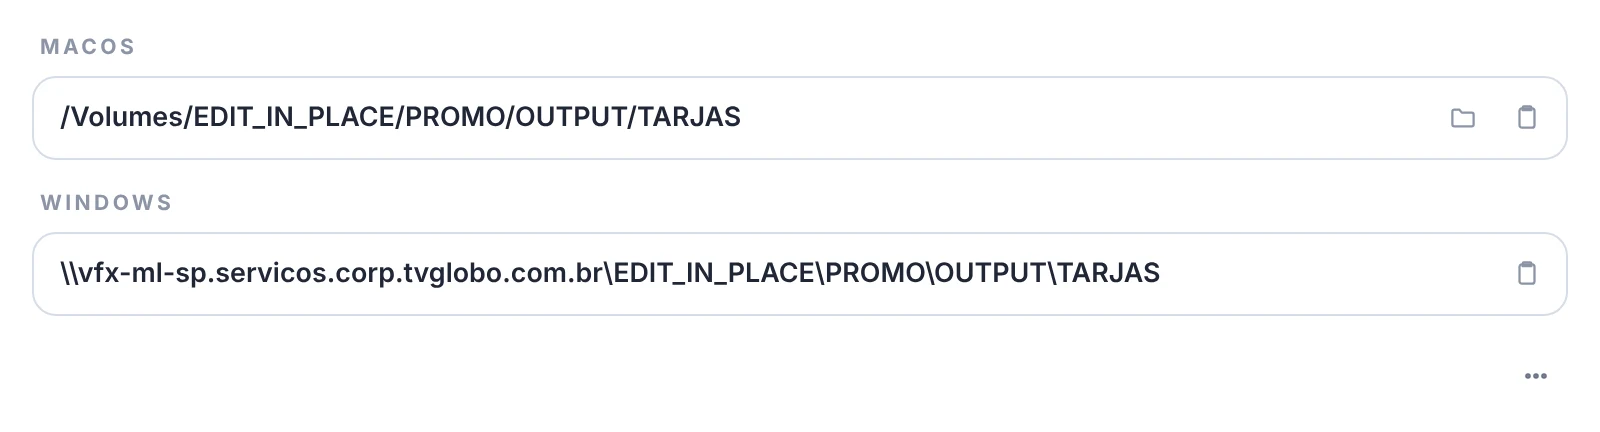
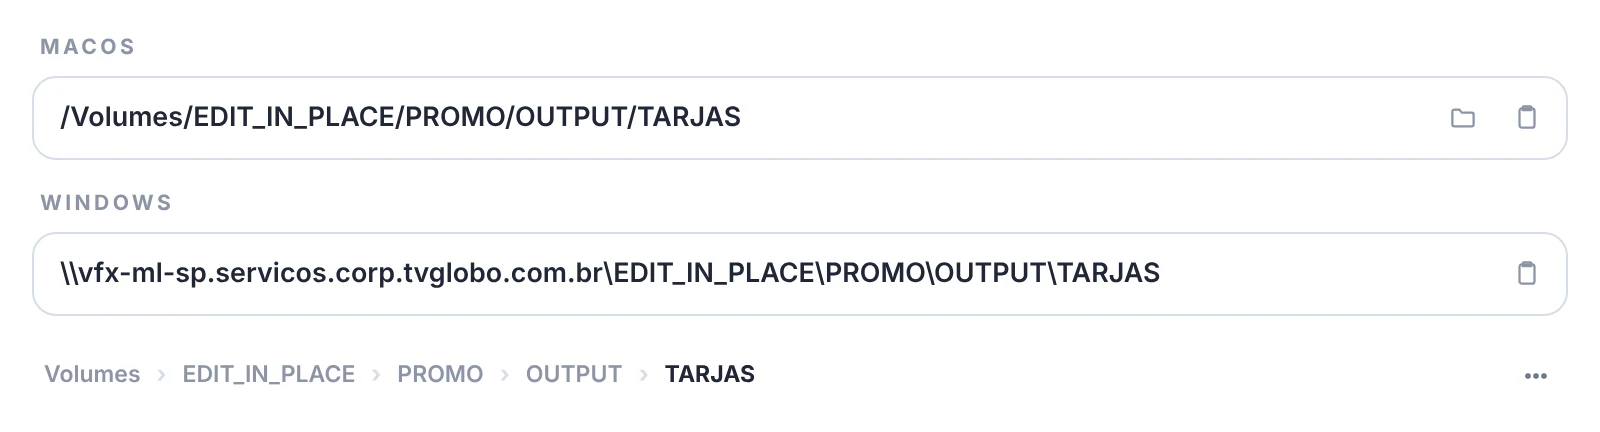
Conversor: breadcrumb do caminho no rodapé
As pastas do caminho do sistema atual aparecem no rodapé, com prioridade
para as últimas: as iniciais saem (com '…') quando não cabem, e a última
só é cortada se sobrar sozinha. Clicar numa pasta abre aquela pasta. As
mensagens ocupam o lugar do breadcrumb e somem sozinhas (os erros ficam).

Claude-Session: https://claude.ai/code/session_01DrYHfUyMEmqYvcFyKefNe2

Changed region(s): [[0.25, 0.8426, 0.4688, 0.9028], [0.0312, 0.8426, 0.2188, 0.9028]]

diff --git a/extension/client/js/converter.js b/extension/client/js/converter.js
@@ -18,18 +18,84 @@ pede (botão 'pastas', clique direito). Copiar e abrir a pasta ficam dentro dos 
 	var DOCS_URL = 'https://github.com/jmbillard/O-PADEIRO/blob/main/docs/conversor.md';
 		var REQUEST_TTL = 15000; // ms: um pedido da barra feito há pouco vale ao abrir o painel
 
-	var state = { os: 'Mac', seq: 0, lastStamp: 0, timer: null };
+	var state = { os: 'Mac', seq: 0, lastStamp: 0, timer: null, statusTimer: null };
 
 	function $(id) {
 		return document.getElementById(id);
 	}
 
+	// A mensagem ocupa o lugar do breadcrumb; as que não são erro somem sozinhas.
 	function status(text, isError) {
 		var node = $('cv-status');
 
+		clearTimeout(state.statusTimer);
 		node.textContent = isError ? PAD_UTIL.errorText(text) : text || '';
 		node.title = node.textContent;
 		node.classList.toggle('is-error', !!isError);
+		$('converter').classList.toggle('has-status', node.textContent !== '');
+
+		if (text && !isError) state.statusTimer = setTimeout(status, 2600);
+	}
+
+	/* ---------------------------------------------------------------
+	   breadcrumb do caminho do sistema atual: as últimas pastas têm
+	   prioridade; as iniciais saem (com "…") quando não cabem
+	   --------------------------------------------------------------- */
+
+	function pathParts(path) {
+		var text = path.trim().replace(/^["']|["']$/g, '');
+
+		if (state.os === 'Mac') return { prefix: '/', sep: '/', parts: text.split('/').filter(Boolean) };
+
+		var unc = /^[\\/]{2}/.test(text);
+
+		return { prefix: unc ? '\\\\' : '', sep: '\\', parts: text.split(/[\\/]+/).filter(Boolean) };
+	}
+
+	function renderCrumbs() {
+		var nav = $('cv-crumbs');
+		var info = pathParts($(state.os === 'Mac' ? 'cv-mac' : 'cv-win').value);
+
+		nav.textContent = '';
+
+		if (!info.parts.length) return;
+
+		var more = document.createElement('span');
+
+		more.className = 'crumb-more';
+		more.textContent = '…';
+		more.hidden = true;
+		nav.appendChild(more);
+
+		var items = info.parts.map(function (name, i) {
+			var btn = document.createElement('button');
+			var target = info.prefix + info.parts.slice(0, i + 1).join(info.sep);
+
+			btn.type = 'button';
+			btn.className = 'crumb' + (i === info.parts.length - 1 ? ' is-last' : '');
+			btn.textContent = name;
+			btn.title = 'abrir ' + target;
+			btn.addEventListener('click', function () {
+				openPath(target);
+			});
+
+			if (i > 0) nav.appendChild(Object.assign(document.createElement('span'), { className: 'crumb-sep', textContent: '›' }));
+			nav.appendChild(btn);
+
+			return btn;
+		});
+
+		// esconde do começo até caber, medindo a última pasta inteira (ela só é cortada se sobrar sozinha)
+		nav.classList.add('is-measuring');
+
+		for (var h = 0; nav.scrollWidth > nav.clientWidth && h < items.length - 1; h++) {
+			items[h].hidden = true;
+
+			if (items[h].nextSibling) items[h].nextSibling.hidden = true; // o "›" seguinte
+			more.hidden = false;
+		}
+
+		nav.classList.remove('is-measuring');
 	}
 
 	// Um campo mudou: converte para o outro (sem realimentar o campo digitado).
@@ -44,6 +110,7 @@ pede (botão 'pastas', clique direito). Copiar e abrir a pasta ficam dentro dos 
 
 			if (source.value.trim() === '') {
 				target.value = '';
+				renderCrumbs();
 				return;
 			}
 
@@ -53,6 +120,7 @@ pede (botão 'pastas', clique direito). Copiar e abrir a pasta ficam dentro dos 
 				if (seq !== state.seq) return; // chegou uma digitação mais nova
 
 				target.value = from === 'mac' ? res.win : res.mac;
+				renderCrumbs();
 			} catch (err) {
 				status(err.message, true);
 			}
@@ -121,6 +189,7 @@ pede (botão 'pastas', clique direito). Copiar e abrir a pasta ficam dentro dos 
 		$('cv-mac').value = '';
 		$('cv-win').value = '';
 		status('');
+		renderCrumbs();
 		$(state.os === 'Mac' ? 'cv-mac' : 'cv-win').focus();
 	}
 
@@ -155,17 +224,19 @@ pede (botão 'pastas', clique direito). Copiar e abrir a pasta ficam dentro dos 
 		}, 1600);
 	}
 
-	async function openFolder() {
-		var field = $(state.os === 'Mac' ? 'cv-mac' : 'cv-win');
+	function openFolder() {
+		openPath($(state.os === 'Mac' ? 'cv-mac' : 'cv-win').value);
+	}
 
-		if (field.value.trim() === '') return;
+	async function openPath(text) {
+		if (text.trim() === '') return;
 
 		var btn = $(state.os === 'Mac' ? 'cv-open-mac' : 'cv-open-win');
 
 		btn.disabled = true;
 
 		try {
-			var res = await call('openConvertedPath', { text: field.value });
+			var res = await call('openConvertedPath', { text: text });
 
 			status(res.exact ? '' : 'a pasta não existe: abrindo a mais próxima.');
 		} catch (err) {
@@ -260,6 +331,7 @@ pede (botão 'pastas', clique direito). Copiar e abrir a pasta ficam dentro dos 
 		$(state.os === 'Mac' ? 'cv-open-mac' : 'cv-open-win').hidden = false;
 		$(state.os === 'Mac' ? 'cv-mac' : 'cv-win').focus();
 		fitHeight();
+		window.addEventListener('resize', renderCrumbs);
 
 		await watchRequest(true);
 

diff --git a/extension/client/css/converter.css b/extension/client/css/converter.css
@@ -99,6 +99,75 @@ body.converter-page {
   gap: 10px;
 }
 
+/* breadcrumb: as últimas pastas sempre visíveis; cada uma abre a pasta */
+.convert-crumbs {
+  display: flex;
+  min-width: 0;
+  flex: 1;
+  align-items: center;
+  gap: 2px;
+  overflow: hidden;
+  white-space: nowrap;
+}
+
+.has-status .convert-crumbs,
+.convert-status:empty {
+  display: none;
+}
+
+.crumb {
+  min-width: 0;
+  flex: 0 0 auto;
+  padding: 3px 6px;
+  overflow: hidden;
+  border: 0;
+  border-radius: 6px;
+  background: transparent;
+  color: var(--text-tertiary);
+  cursor: pointer;
+  font: inherit;
+  font-size: 0.72rem;
+  font-weight: 620;
+  text-overflow: ellipsis;
+  transition:
+    background-color 160ms ease,
+    color 160ms ease;
+}
+
+.crumb:hover {
+  background: var(--blue-50);
+  color: var(--blue-500);
+}
+
+.crumb.is-last {
+  flex-shrink: 1;
+  color: var(--text-primary);
+  font-weight: 720;
+}
+
+.is-measuring .crumb.is-last {
+  flex-shrink: 0;
+}
+
+.crumb[hidden],
+.crumb-sep[hidden],
+.crumb-more[hidden] {
+  display: none;
+}
+
+.crumb-sep,
+.crumb-more {
+  flex: 0 0 auto;
+  color: var(--border-strong);
+  font-size: 0.72rem;
+  font-weight: 700;
+}
+
+.crumb-more {
+  padding: 0 4px;
+  color: var(--text-tertiary);
+}
+
 .convert-status {
   min-width: 0;
   flex: 1;

diff --git a/extension/client/converter.html b/extension/client/converter.html
@@ -35,6 +35,7 @@
 		</div>
 
 		<footer class="convert-footer">
+			<nav class="convert-crumbs" id="cv-crumbs" aria-label="Pastas do caminho"></nav>
 			<span class="convert-status" id="cv-status" aria-live="polite"></span>
 			<details class="actions-menu convert-menu" id="app-menu">
 				<summary class="icon-button is-light" title="Mais opções" aria-label="Mais opções"><svg viewBox="0 0 24 24" class="anim-dots"><circle cx="6" cy="12" r="1.2" /><circle cx="12" cy="12" r="1.2" /><circle cx="18" cy="12" r="1.2" /></svg></summary>

diff --git a/docs/conversor.md b/docs/conversor.md
@@ -11,6 +11,7 @@ o painel **O PADEIRO conversor**: converte caminhos entre Windows e macOS.
 - **cole um caminho em qualquer lugar do painel** → o padeiro reconhece se é macOS ou Windows, coloca no campo certo e converte o outro.
 - **prancheta** (dentro de cada campo) → copia o caminho.
 - **pasta** (dentro do campo do sistema atual) → abre o caminho no Finder / Explorer (ou a pasta mais próxima que existe). `Enter` faz o mesmo.
+- **rodapé** → as pastas do caminho do sistema atual, das últimas para as primeiras (as iniciais saem com '*…*' quando não cabem). clique numa delas para abrir aquela pasta.
 - **⋯** (canto inferior direito) → ajuda (esta página) e recarregar o painel.
 - `Esc` → limpa os dois campos.
 
